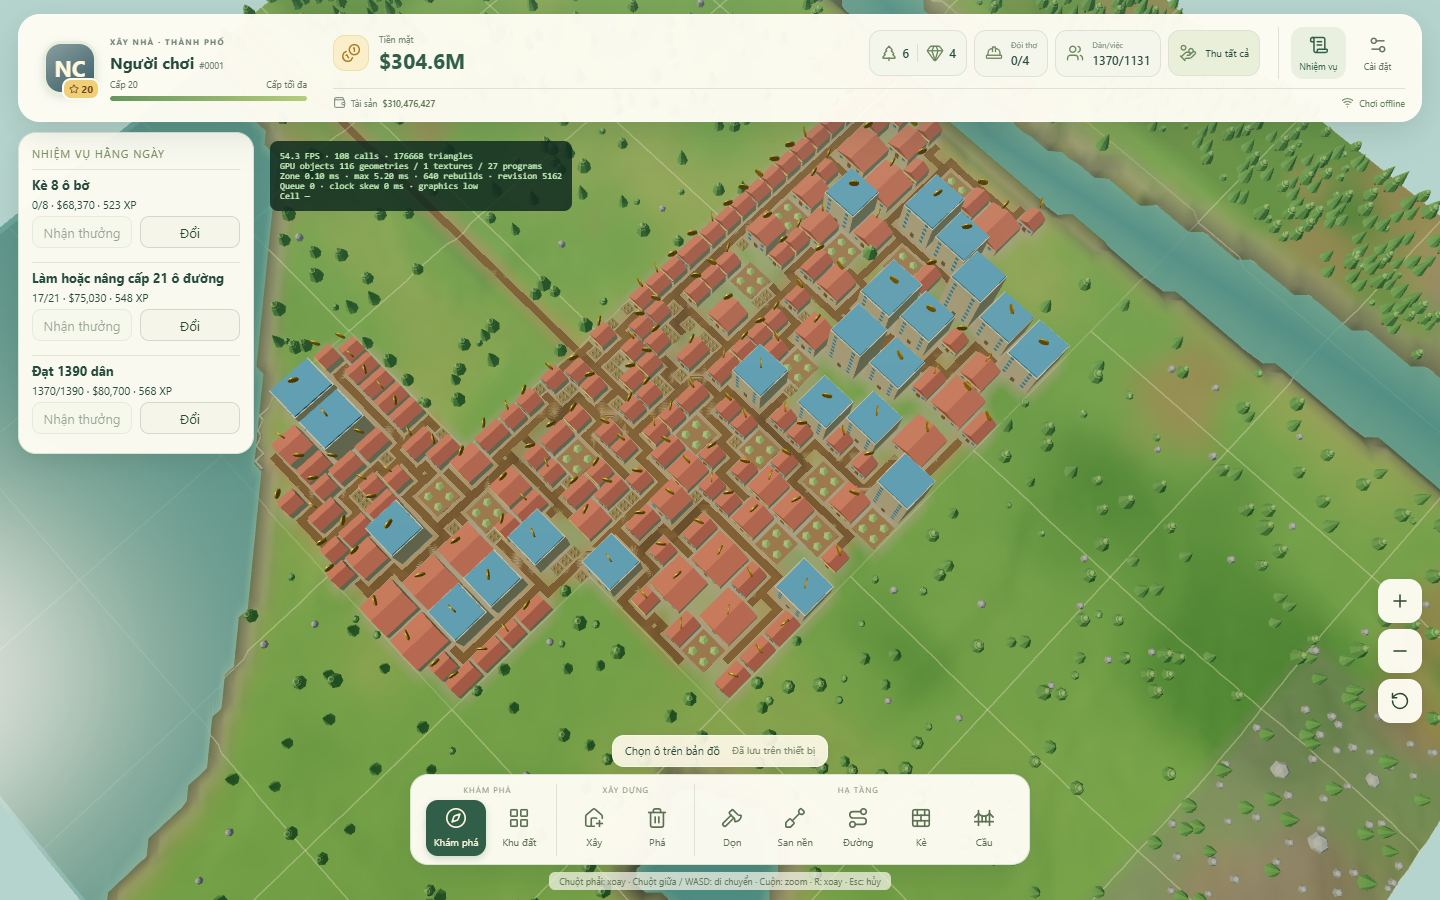
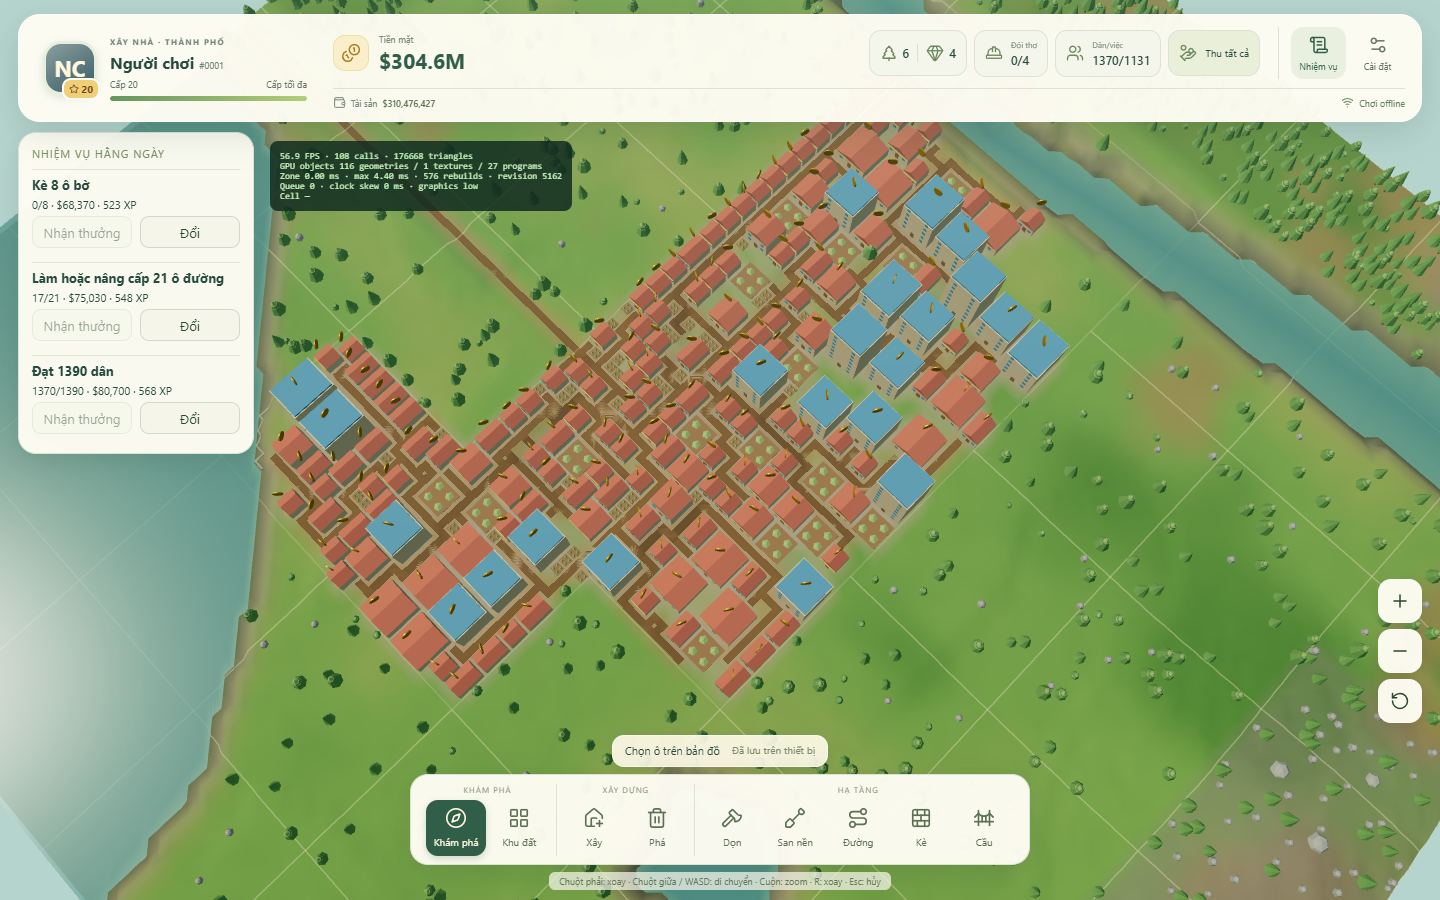
G4: full-world FPS measured at steady state (57-59, City overview 51)
The first reading used the 1-s HUD counter right after loading. Profiling:
a full-City frame costs ~3 ms GPU (1.5 ms without shadows).

Changed region(s): [[0.5, 0.3733, 0.5312, 0.4044]]

diff --git a/docs/evidence/g4/full-world/README.md b/docs/evidence/g4/full-world/README.md
@@ -15,12 +15,14 @@ offline dev client through validate-then-swap and measures docs/11 §8 on this d
 | Triangles, high | 197k | 203k | ≤ 1.5 M |
 | Draw calls, low | 108 | 104 | ≤ 150 (mobile) |
 | Triangles, low | 177k | 181k | ≤ 500k (mobile) |
-| Zone rebuild after TERRAFORM | 5.2 ms | 2.8 ms | ≤ 8 ms desktop |
+| Zone rebuild after TERRAFORM | 4.4 ms | 4.7 ms | ≤ 8 ms desktop |
 | Console errors | 0 | 0 | 0 |
-| FPS high (default / overview) | 47 / 40 | 51 / 44 | 60 desktop — **below target** |
-| FPS low (default / overview) | 55 / 55 | 57 / 46 | ≥ 30 mobile |
+| FPS high, steady state (min over 4 views; p95 frame) | 51 (overview 75°, p95 26 ms); other views 57–59 | 58–59 (p95 ≤ 19.5 ms) | 60 desktop |
+| FPS low, steady state | 58–59 | 59 | ≥ 30 mobile |
 
 Not covered: docs/10 §6 asks for 400 buildings, 2 000 road cells, 20 bridges, 1 000 fields and 64 open zones;
 these bot worlds are realistic day-60 worlds and are smaller. Real reference devices were not available.
-FPS in headless Chrome on this host is indicative only. Desktop FPS at "high" falls to 40–53 in a full City/Farm;
-"low" restores ~55. Profiling the high-quality GPU cost (shadow map 2048 PCF soft over ~230 buildings) is a P1 item.
+FPS is the median of 90 requestAnimationFrame intervals after a 3 s settle (headless Chrome, this host; indicative).
+A first run read the 1-second HUD counter right after loading and showed 40–53 FPS; profiling showed that was
+load/settle work: one full-City render (main + shadow pass) costs ~3.0 ms of GPU time (1.5 ms without shadows).
+Only the City 75° overview at high quality stays slightly below 60 (51 FPS).
